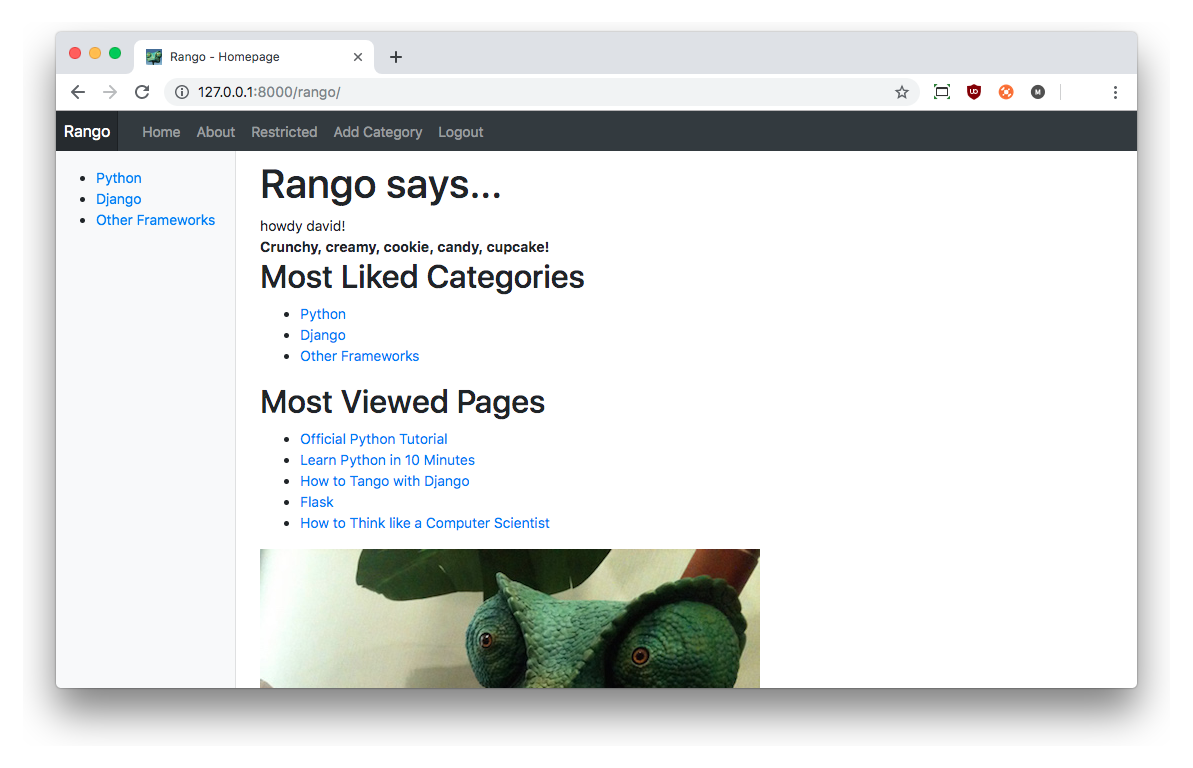
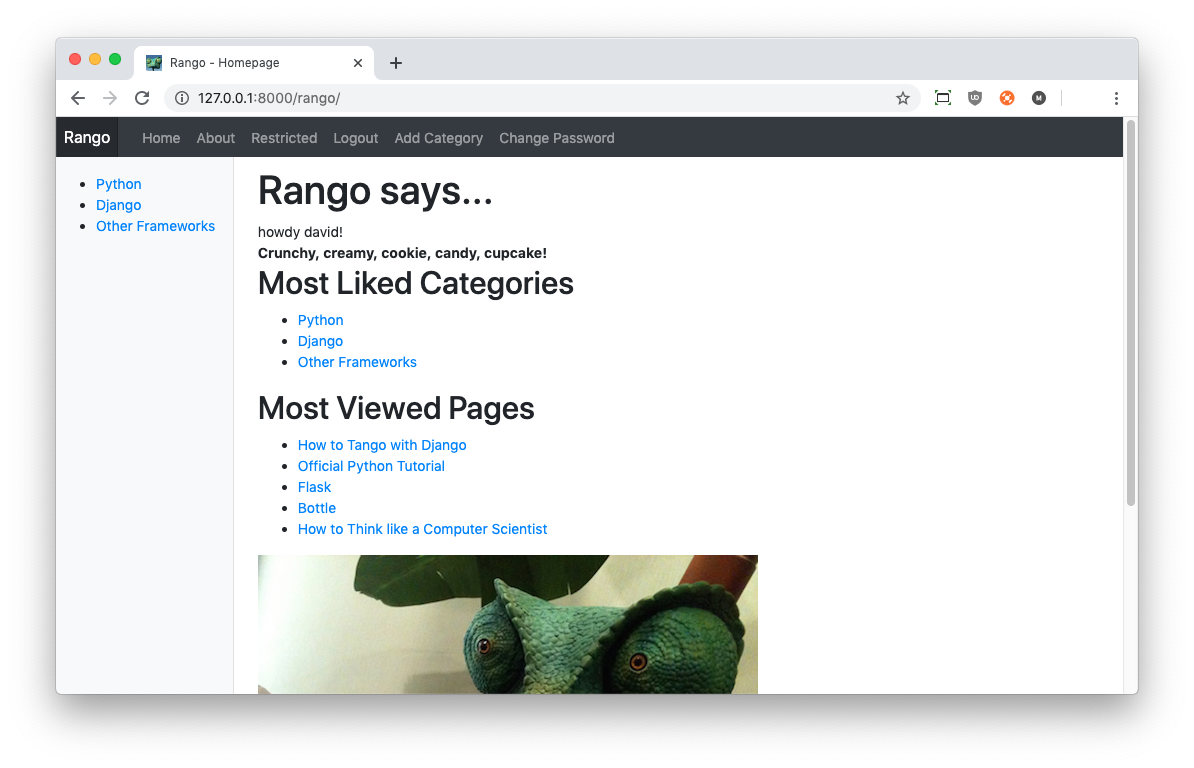
Updated Chapters 11 and 12

Changed region(s): [[0.031, 0.0312, 0.9614, 0.9062]]

diff --git a/manuscript/chapter11-redux.md b/manuscript/chapter11-redux.md
@@ -20,7 +20,7 @@ With the package installed, we next need to tell the Django framework that we wi
 	    'django.contrib.messages',
 	    'django.contrib.staticfiles',
 	    'rango',
-	    'registration'  # Add in the registration package
+	    'registration',  # Add in the registration package
 	    ]
 	
 
@@ -42,7 +42,7 @@ While you are in the `settings.py` module, you can also add the following variab
 
 Remember, we can specify URL mapping names instead of absolute URLs to make our configuration more versatile. Have a look at the section below to see where the value for `LOGIN_URL` comes from. The value for `LOGIN_REDIRECT_URL` simply points to the Rango homepage; we redirect users here after successfully logging in.
 
-In your *project's* `urls.py` module (`<Workspace>/tango_with_django_project/urls.py`), you can now update the `urlpatterns` list so that it includes a reference to the `registration` package:
+In your *project's* `urls.py` module (`<Workspace>/tango_with_django_project/urls.py`, **NOT** the one in `rango`!), you can now update the `urlpatterns` list so that it includes a reference to the `registration` package:
 
 {lang="python",linenos=off}
 	path('accounts/', include('registration.backends.simple.urls')),
@@ -62,12 +62,12 @@ The Django Registration Redux package provides the machinery for numerous functi
 | Password Change          | `.../password/change/`            | `auth_password_change`      |
 | Change Complete          | `.../password/change/done/`       | `auth_password_change_done` |
 
-All too good to be true! While all of this different functionality is provided for you, the `django-registration-redux` package unfortunately does not provide templates for each of the required pages. This makes sense, as templates tend to be application-specific. As such, we'll need to create templates for each view.
+All too good to be true! While all of this different functionality is provided for you, the `django-registration-redux` package unfortunately does not provide templates for each of the required pages. This makes sense, as templates tend to be application specific. As such, we'll need to create templates for each view.
 
 ## Setting up the Templates
 In the [Django Registration Redux Quick Start Guide](https://django-registration-redux.readthedocs.org/en/latest/quickstart.html), an overview of what templates are required is provided. However, it is not immediately clear what goes within each template. Rather than try and work it out from the code, we can take a look at a set of [templates written by Anders Hofstee](https://github.com/macdhuibh/django-registration-templates) to quickly get the gist of what we need to code up.
 
-As we'll be working on templates that the `registration` app uses, we will need to create a new directory to keep these new templates separate from our `rango` templates. In the `templates` directory, create a new directory called `registration`. We will be working on creating the basic templates from within there, as the `registration` package will look in that directory for its templates.
+As we'll be working on templates that the `registration` app uses, we will need to create a new directory to keep these new templates separate from our `rango` templates. In the `templates` directory, create a new directory called `registration`. This should be at the same level as the `rango` templates directory -- **not within it.** We will be working on creating the basic templates from within there, as the `registration` package will look in that directory for its templates.
 
 I> ### Inheriting Templates across Apps
 I> You can inherit from base templates that belong to other apps. We'll be doing this in the code snippets below. Although we create templates in the `registration` directory for the `registration` app, we extend these templates from the `base.html` template for Rango. This will allow us to ensure a consistent look is provided across each rendered page, which is key to a professional website design.
@@ -88,21 +88,21 @@ In the `templates/registration` directory, create the file `login.html`. This wi
 	{% endblock %}
 	
 	{% block body_block %}
-	    <h1>Login</h1>
+	<h1>Login</h1>
 	
-	    <form method="post" action=".">
-	        {% csrf_token %}
-	    
-	        {{ form.as_p }}
-	    
-	        <input type="submit" value="Log in" />
-	        <input type="hidden" name="next" value="{{ next }}" />
-	    </form>
+	<form method="post" action=".">
+	    {% csrf_token %}
 	
-	    <p>
-	        Not registered?
-	        <a href="{% url 'registration_register' %}">Register here!</a>
-	    </p>
+	    {{ form.as_p }}
+	
+	    <input type="submit" value="Log In" />
+	    <input type="hidden" name="next" value="{{ next }}" />
+	</form>
+	
+	 <p>
+	    Not registered?
+	    <a href="{% url 'registration_register' %}">Register here!</a>
+	</p>
 	{% endblock %}
 
 Notice that whenever a URL is referenced, the `url` template tag is once again used to reference it. If you visit `http://127.0.0.1:8000/accounts/`, you will see the list of URL mappings and the names associated with each URL (assuming that `DEBUG=True` in `settings.py`). Alternatively, refer to the shorthand table we provided above.
@@ -118,11 +118,11 @@ In the `templates/registration` directory, create the file `logout.html`. This t
 	{% endblock %}
 	
 	{% block body_block %}
-	    <h1>Logged Out</h1>
-	    
-	    <p>
-	        You have been successfully logged out. Thanks for spending time on Rango!
-	    </p>
+	<h1>Logged Out</h1>
+	
+	<p>
+	    You have been successfully logged out. Thanks for spending time on Rango!
+	</p>
 	{% endblock %}
 
 ### Registration Template
@@ -136,15 +136,15 @@ In `templates/registration` directory, create the file `registration_form.html`.
 	{% endblock %}
 	
 	{% block body_block %}
-	    <h1>Register Here</h1>
+	<h1>Register Here</h1>
 	
-	    <form method="post" action=".">
-	        {% csrf_token %}
-	        
-	        {{ form.as_p }}
-	        
-	        <input type="submit" value="Register" />
-	    </form>
+	<form method="post" action=".">
+	    {% csrf_token %}
+	    
+	    {{ form.as_p }}
+	    
+	    <input type="submit" value="Register" />
+	</form>
 	{% endblock %}
 
 ### Registration Closed Template
@@ -158,20 +158,24 @@ In `templates/registration` directory, create the file `registration_closed.html
 	{% endblock %}
 	
 	{% block body_block %}
-	    <h1>Registration Closed</h1>
-	    
-	    <p>Unfortunately, registration is currently closed. Please try again later!</p>
+	<h1>Registration Closed</h1>
+	
+	<p>Unfortunately, registration is currently closed. Please try again later!</p>
 	{% endblock %}
 
 ### Try out the Registration Process
-With the basic forms created, we can now attempt to register a new user account using the `django-registration-redux` package. First, we will need to migrate our database using the `$ python manage.py migrate` command, followed by `$ python manage.py makemigrations`. After these steps, visit the registration page at <http://127.0.0.1:8000/accounts/register/>.
+With the basic forms created, we can now attempt to register a new user account using the `django-registration-redux` package.
+
+* First, we will need to migrate our database using the `$ python manage.py migrate` command.
+* Then you can issue the command `$ python manage.py makemigrations`.
+* After these steps, visit the registration page at <http://127.0.0.1:8000/accounts/register/>.
 
 {id="fig-ch11-redux-registration"}
 ![A screenshot of the updated registration page using `django-registration-redux`.](images/ch11-redux-registration.png)
 
 As seen in the [figure above](#fig-ch11-redux-registration), note how the registration form contains two fields for the new user's password. This is standard in pretty much every website nowadays and provides a means for validating the password entered by the user. Try registering, but enter different passwords.
 
-Notice how the `registration` app is handling all of the logic for you. The app is also able to redirect you to Rango's homepage on a successful registration, as it is intructed to by the `LOGIN_REDIRECT_URL` setting specified in your project's `settings.py` module.
+Notice how the `registration` app is handling all of the logic for you. The app is also able to redirect you to Rango's homepage on a successful registration, as it is intructed to by the `LOGIN_REDIRECT_URL` setting specified in your project's `settings.py` module. Are you logged in or out at that point?
 
 ### Refactoring your Existing Project
 Now that you are happy with the `registration` code, we will need to update our existing `rango` codebase to point to the new `django-registration-redux` URLs.
@@ -188,7 +192,7 @@ Next, open your project's `settings.py` module. You should have updated this ear
 
 Notice that for the logout hyperlink we have included an additional component to the URL, namely `?next={% url 'rango:index' %}`. This is provided so when the user logs out, it will redirect them straight to the Rango index page. If we exclude it, then they will be directed to the logout page that we created earlier, telling them that they have been successfully logged out. We include this to demonstrate some of the advanced functionality of the `django-registration-redux` package.
 
-Finally, you need to decommission existing user authentication code that you wrote in previous chapters. This will entail removing the `register()`, `user_login()` and `user_logout()` views from Rango's `views.py` module, the corresponding URL mappings from Rango's `urls.py` module, and templates from the `templates/rango/` directory. If you do not want to delete this code, simply comment them out. Remember, too, that there will be some redundant `import` statements at the top of Rango's `views.py` module!
+Finally, you need to decommission existing user authentication code that you wrote in previous chapters. This will entail removing the `register()`, `user_login()` and `user_logout()` views from Rango's `views.py` module, the corresponding URL mappings from Rango's `urls.py` module, and templates from the `templates/rango/` directory. If you do not want to delete this code, simply comment them out. Remember, too, that there will now be some redundant `import` statements at the top of Rango's `views.py` module!
 
 X> ### Exercise
 X> - Using the `django-registration-redux` package, provide users of your Rango app with the ability to change their password.

diff --git a/manuscript/chapter12-bootstrap.md b/manuscript/chapter12-bootstrap.md
@@ -87,10 +87,13 @@ W> If you don't understand what the specific Bootstrap classes do, check out the
 	        href="{% url 'rango:restricted' %}">Restricted</a></li>
 	    <li class="nav-item">
 	        <a class="nav-link" 
+	        href="{% url 'auth_logout' %}?next=/rango/">Logout</a></li>
+	    <li class="nav-item">
+	        <a class="nav-link" 
 	        href="{% url 'rango:add_category' %}">Add Category</a></li>
 	    <li class="nav-item">
 	        <a class="nav-link" 
-	        href="{% url 'auth_logout' %}?next=/rango/">Logout</a></li>
+	        href="{% url 'auth_password_change' %}">Change Password</a></li>
 	    {% else %}
 	    <li class="nav-item">
 	        <a class="nav-link" 
@@ -118,7 +121,7 @@ W> If you don't understand what the specific Bootstrap classes do, check out the
 	    {% endblock %}
 	    <footer>
 	        <p class="float-right"><a href="#">Back to top</a></p>
-	        <p>&copy; 2019 Tango With Django 2 &middot; <a href="#">Privacy</a> &middot; 
+	        <p>&copy; 2020 Tango With Django 2 &middot; <a href="#">Privacy</a> &middot; 
 	            <a href="#">Terms</a></p>
 	    </footer>
 	    </main>
@@ -241,13 +244,13 @@ If we go back to the Bootstrap examples, we can see that [Jumbotron](https://get
 	    <div class="container">
 	        <h1 class="jumbotron-heading">Rango says...</h1>
 	        <div>
-	        <h2 class="h2">
-	            {% if user.is_authenticated %}
+	            <h2 class="h2">
+	             {% if user.is_authenticated %}
 	                howdy {{ user.username }}!
 	            {% else %}
 	                hey there partner!
 	            {% endif %}
-	        </h2>
+	            </h2>
 	        <strong>{{ boldmessage }}</strong>
 	        </div>
 	    </div>
@@ -272,12 +275,12 @@ After you have successfully added the jumbotron, we can move on to the two-colum
 	                    <p class="card-text">
 	                    {% if categories %}
 	                    <ul>
-	                        {% for category in categories %}
+	                    {% for category in categories %}
 	                        <li>
 	                        <a href="{% url 'rango:show_category' category.slug %}">
 	                        {{ category.name }}</a>
 	                        </li>
-	                        {% endfor %}
+	                    {% endfor %}
 	                    </ul>
 	                    {% else %}
 	                    <strong>There are no categories present.</strong>
@@ -294,11 +297,11 @@ After you have successfully added the jumbotron, we can move on to the two-colum
 	                    <p class="card-text">
 	                    {% if pages %}
 	                    <ul>
-	                        {% for page in pages %}
+	                    {% for page in pages %}
 	                        <li>
 	                        <a href="{{ page.url }}">{{ page.title }}</a>
 	                        </li>
-	                        {% endfor %}
+	                    {% endfor %}
 	                    </ul>
 	                    {% else %}
 	                    <strong>There are no pages present.</strong>
@@ -318,15 +321,9 @@ Let's use the [list group styles provided by Bootstrap](https://getbootstrap.com
 ![The updated Rango index page, after applying both the jumbotron and two-column layout. How much better does it look now?](images/ch12-bootstrap-styled-index.png)
 
 ### The Login Page
-Now that the index page has been styled, let's turn our attention to Rango's login page. On the Bootstrap website, there is a demonstration [login form](https://getbootstrap.com/docs/4.2/examples/sign-in/). If you take a look at the source, you'll notice that there are several classes that we need to include to get a basic login form to work using Bootstrap. To do this, we can start by replacing the `body_block` in the `registration/login.html` template with the following code.
+Now that the index page has been styled, let's turn our attention to Rango's login page. On the Bootstrap website, there is a demonstration [login form](https://getbootstrap.com/docs/4.2/examples/sign-in/). If you take a look at the source, you'll notice that there are several classes that we need to include to get a basic login form to work using Bootstrap. To do this, we can start by replacing the markup in `body_block` after your jumbotron header in the `registration/login.html` template with the following.
 
 {lang="html",linenos=off}
-	{% block body_block %}
-	<link href="https://getbootstrap.com/docs/4.0/examples/signin/signin.css"
-		rel="stylesheet">
-	<div class="jumbotron p-4">
-		<h1 class="jumbotron-heading">Login</h1>
-	</div>
 	<div class="container">
 	<form class="form-signin" role="form" method="post" action=".">
 		{% csrf_token %}
@@ -340,7 +337,6 @@ Now that the index page has been styled, let's turn our attention to Rango's log
 			value="Submit">Sign in</button>
 	</form>
 	</div>
-	{% endblock %}
 
 Besides adding in a link to the bootstrap `signin.css` and a series of changes to the classes associated with elements, we have removed the code that automatically generates the login form (`{{ form.as_p }}`). Instead, we took the elements from the generated `<form>`, and importantly the `name` of the form elements. We then associated the names with the new elements we added above. To find out what the `name`s were, we ran Rango, navigated to the login page, and then inspected the source to see what HTML was produced by the `{{ form.as_p }}` call. 
 
@@ -356,14 +352,13 @@ You can apply similar changes to `add_cagegory.html` and `add_page.html` templat
 	{% extends "rango/base.html" %}
 	{% block title %}Add Page{% endblock %}
 	{% block body_block %}
-	    {% if category %}
-	    <div class="jumbotron p-4">
-	        <div class="container">
-	        <h1 class="jumbotron-heading">Add Page to {{category.name}}</h1>
-	        </div>
-	    </div>
+	<div class="jumbotron p-4">
 	    <div class="container">
-	        <div class="row">
+	    <h1 class="jumbotron-heading">Add a Page to {{category.name}}</h1>
+	    </div>
+	</div>
+	<div class="container">
+	    <div class="row">
 	        <form role="form" id="page_form" method="post" 
 	              action="{% url 'rango:add_page' category.slug %}">
 	        {% csrf_token %}
@@ -372,28 +367,18 @@ You can apply similar changes to `add_cagegory.html` and `add_page.html` templat
 	        {% endfor %}
 	        {% for field in form.visible_fields %}
 	            {{ field.errors }}
-	            {{ field.help_text }}<br/>
-	            {{ field }}<br/>
+	            {{ field.help_text }}<br />
+	            {{ field }}<br />
 	            <div class="p-2"></div>
 	        {% endfor %}
-	        <br/>
-	        <button class="btn btn-primary" type="submit" name="submit">
-	            Add Page
-	        </button>
-	        <div class="p-5"></div>
+	            <br />
+	            <button class="btn btn-primary" type="submit" name="submit">
+	                Add Page
+	            </button>
+	            <div class="p-5"></div>
 	        </form>
-	        </div>
 	    </div>
-	    {% else %}
-	    <div class="jumbotron p-4">
-	        <div class="container">
-	            <h1 class="jumbotron-heading">Add a Page</h1>
-	        </div>
-	    </div>
-	    <div>
-	        The specified category does not exist.
-	    </div>
-	    {% endif %}
+	</div>
 	{% endblock %}
 
 X> ### Category Form Style Exercise
@@ -408,7 +393,7 @@ Finally, let's tweak the registration template. Open the registration form templ
 	    <div class="form-group" >
 	    <form role="form"  method="post" action=".">
 	        {% csrf_token %}
-	        <div class="form-group" >
+	        <div class="form-group">
 	        <p class="required"><label class="required" for="id_username">
 	            Username:</label>
 	        <input class="form-control" id="id_username" maxlength="30"
